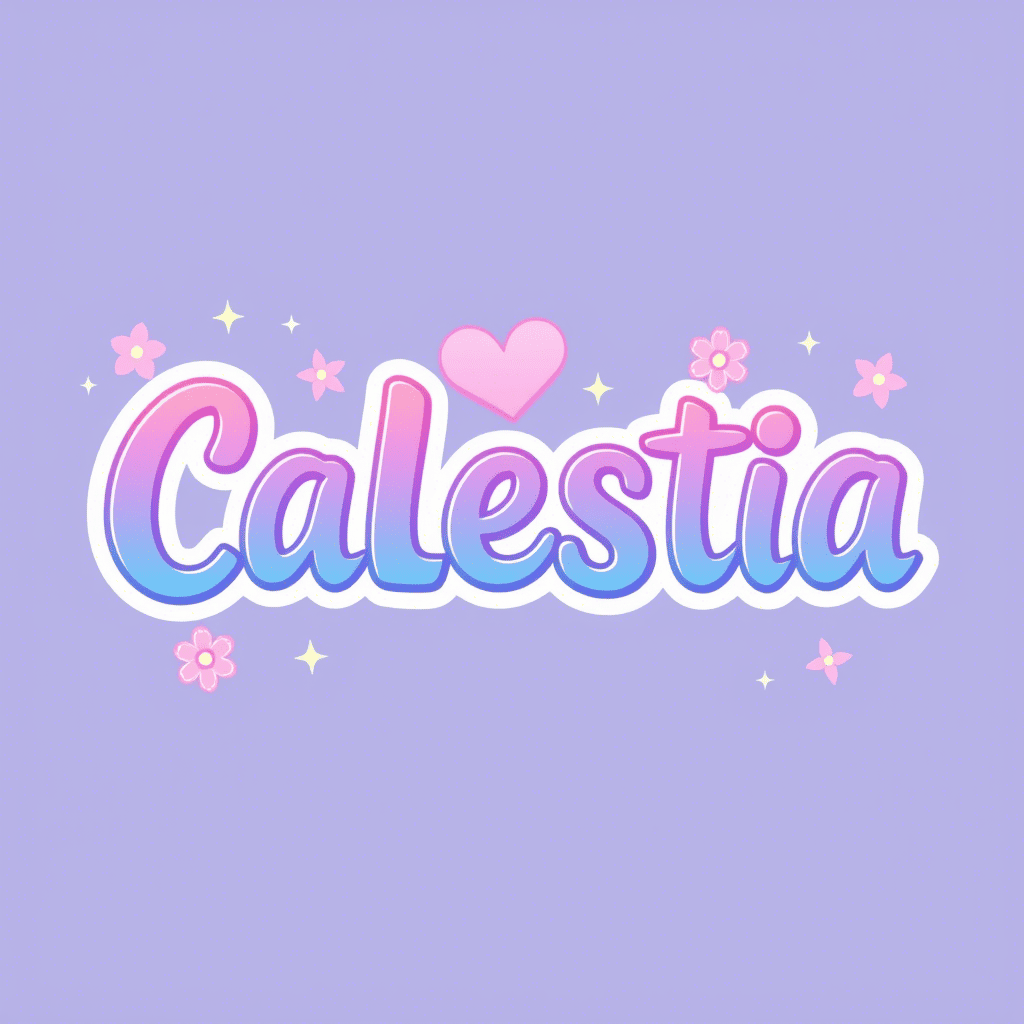
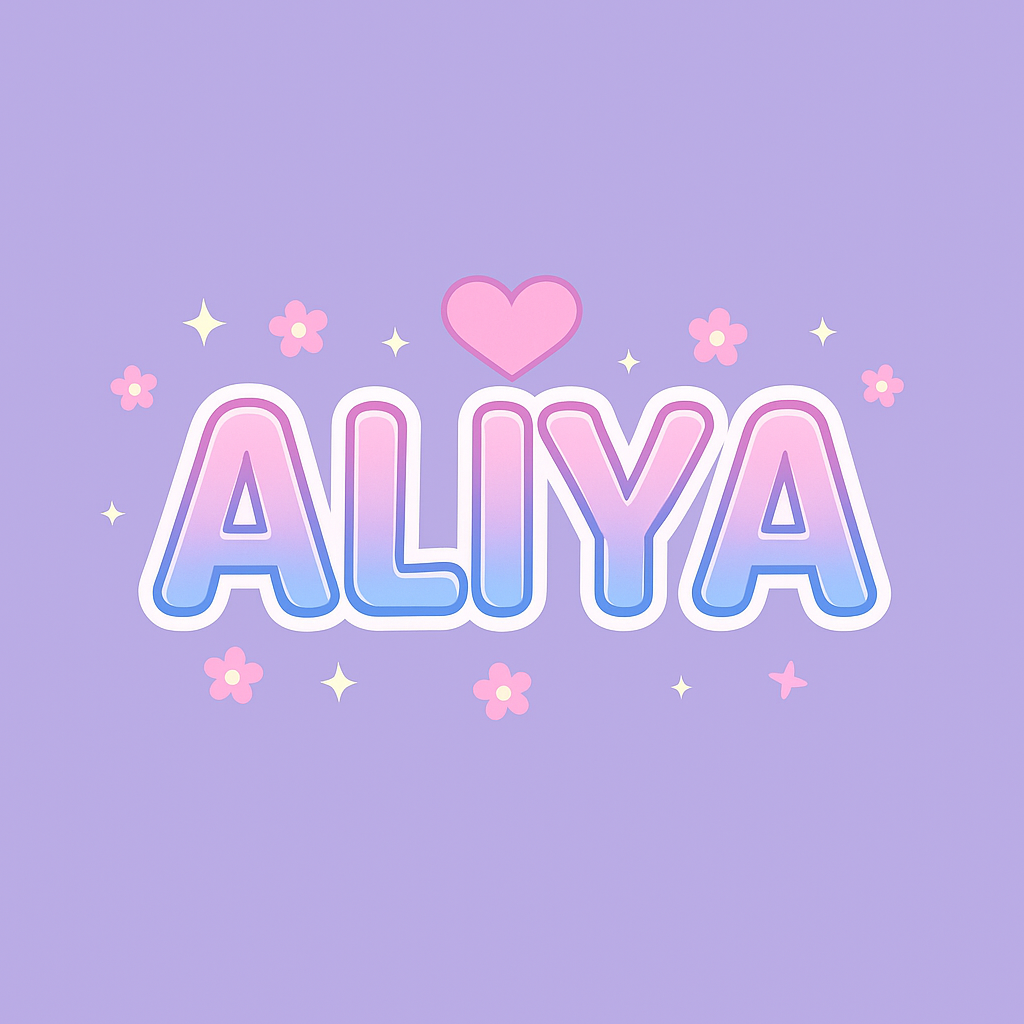
Add files via upload

diff --git a/index.html b/index.html
@@ -1,16 +1,3 @@
-<!--
-  This code was written by Azuan — with love, bugs, and late-night heartbreaks.
-  Supported by XiezuMedia, who believed in the chaos.
-
-  © 2024 Zykuan & XiezuMedia. All rights reserved.
-  Feel free to use or cherish it, like a good ex...
-  But remove this watermark? That’s like forgetting who loved you first.
-  And trust me — we notice.
-
-  Don’t ghost the author.
-  www.instagram.com/zuanxfnd
--->
-
 <!DOCTYPE html>
 <html lang="en">
 <head>
@@ -19,13 +6,13 @@
   <title>Calestars - Community</title>
 
   <!-- Open Graph / SEO Tags -->
-  <meta property="og:description" content="Komunitas Calestia – Link-in-Bio & Community Hub">
+  <meta property="og:description" content="Komunitas ALIYA – Link-in-Bio & Community Hub">
   <meta property="og:type" content="website">
-  <meta property="og:url" content="https://calestia.my.id">
-  <meta property="og:image" content="https://calestia.my.id/seo.png">
+  <meta property="og:url" content="https://tmpfiles.org/dl/437810/df9bfcba6b.jpg">
+  <meta property="og:image" content="https://tmpfiles.org/dl/437810/df9bfcba6b.jpg/seo.png">
   <meta property="og:image:width" content="1200">
   <meta property="og:image:height" content="630">
-  <meta name="twitter:image" content="https://calestia.my.id/seo.png">
+  <meta name="twitter:image" content="https://tmpfiles.org/dl/437810/df9bfcba6b.jpg/seo.png">
 
   <!-- Favicon -->
   <link rel="icon" href="icon.png" type="image/png">
@@ -293,7 +280,7 @@
       
       <!-- Logo -->
       <div class="flex items-center space-x-2">
-        <span class="text-xl font-bold gradient-text">Calestia</span>
+        <span class="text-xl font-bold gradient-text">https://tmpfiles.org/dl/437810/df9bfcba6b.jpg</span>
       </div>
 
       <!-- Right Menu -->
@@ -307,7 +294,7 @@
         </button>
 
         <!-- Admin Telegram Button -->
-        <a href="https://t.me/Zykuan" target="_blank"
+        <a href="https://t.me/masadijir" target="_blank"
         class="flex items-center space-x-2 bg-[#2AABEE] text-white px-4 py-2 rounded-full shadow-md hover:shadow-lg transition-all">
         <i class="fab fa-telegram-plane"></i>
         <span>Admin</span>
@@ -338,7 +325,7 @@
 
         <!-- Introduction Text -->
         <p class="text-gray-600 max-w-2xl">
-          Welcome to Calestia — a little world made just for you.
+          Welcome to Aliya — a little world made just for you.
           <br><br>
           Whether you’re here to connect, explore, or simply feel closer to the magic,
           every link below is a step into our universe.
@@ -433,12 +420,12 @@
       <div class="text-left">
         <h3 class="text-xl font-semibold text-gray-800">Standard</h3>
         <h3 class="text-xl font-semibold text-gray-800 my-1 flex items-center gap-1">
-          4K 
+          3K 
           <span class="text-xs bg-pink-500 px-2 py-0.5 rounded-full text-white">15 days</span>
         </h3>
         <ul class="text-left text-gray-600 space-y-2 mb-6 dark:text-gray-300">
-          <li>• Premium 15 Days</li>
-          <li>• 2,000 message limit</li>
+          <li>• Addgroup 15 Days</li>
+          <li>• Premium 7 Days</li>
           <li>• No cooldown feature</li>
           <li>• Access all features</li>
           <li>• Priority support</li>
@@ -452,12 +439,12 @@
       <div class="text-left">
         <h3 class="text-xl font-semibold text-gray-800">Starlight</h3>
         <h3 class="text-xl font-semibold text-gray-800 my-1 flex items-center gap-1">
-          5K 
+          8K 
           <span class="text-xs bg-indigo-500 px-2 py-0.5 rounded-full text-white">30 days</span>
         </h3>
         <ul class="text-left text-gray-600 space-y-2 mb-6 dark:text-gray-300">
-          <li>• Premium 30 Days</li>
-          <li>• Following daily limits (20)</li>
+          <li>• Addgroup 30Days</li>
+          <li>• Premium 15dDays</li>
           <li>• No cooldown feature</li>
           <li>• Access all features</li>
           <li>• Priority support</li>
@@ -471,12 +458,12 @@
       <div class="text-left">
         <h3 class="text-xl font-semibold text-gray-800">Moonlight</h3>
         <h3 class="text-xl font-semibold text-gray-800 my-1 flex items-center gap-1">
-          8K 
-          <span class="text-xs bg-yellow-500 px-2 py-0.5 rounded-full text-white">30 days</span>
+          15K 
+          <span class="text-xs bg-yellow-500 px-2 py-0.5 rounded-full text-white">90 days</span>
         </h3>
         <ul class="text-left text-gray-600 space-y-2 mb-6 dark:text-gray-300">
-          <li>• Premium 30 Days</li>
-          <li>• 4,000 message limit</li>
+          <li>• Addgroup 90Days</li>
+          <li>• Premium 45Days</li>
           <li>• No cooldown feature</li>
           <li>• Access all features</li>
           <li>• Priority support</li>
@@ -488,16 +475,16 @@
     <!-- Inviting Bots to Groups -->
     <div class="bg-white rounded-xl p-6 shadow-lg border border-gray-100 card-hover transition-colors duration-300 dark:bg-gray-800 dark:border-gray-700 dark:text-white">
       <div class="text-left">
-        <h3 class="text-xl font-semibold text-gray-800">Inviting bots to groups</h3>
+        <h3 class="text-xl font-semibold text-gray-800">PERMANEN</h3>
         <h3 class="text-xl font-semibold text-gray-800 my-1 flex items-center gap-1">
-          12K 
-          <span class="text-xs bg-teal-500 px-2 py-0.5 rounded-full text-white">30 days</span>
+          25K 
+          <span class="text-xs bg-teal-500 px-2 py-0.5 rounded-full text-white">unlimited</span>
         </h3>
         <ul class="text-left text-gray-600 space-y-2 mb-6 dark:text-gray-300">
-          <li>• Rent for 30 days</li>
-          <li>• Maintaining the group</li>
+          <li>• unlimited days group</li>
+          <li>• unlimited premium user</li>
           <li>• Have fun with friends</li>
-          <li>• 7 day premium bonus for renters</li>
+          <li>• free req fitur for cust</li>
         </ul>
         <button class="w-full bg-teal-500 hover:bg-teal-600 text-white py-2 rounded-md transition select-plan">Select Plan</button>
       </div>
@@ -529,18 +516,18 @@
 
 <!-- Footer -->
 <footer class="mt-16 text-center text-gray-600 px-4">
-  <p class="mb-2">Create With ❤ by <span class="font-semibold">Zykuan</span></p>
-  <p class="mb-4">© 2025 XiezuMedia. All Rights Reserved.</p>
+  <p class="mb-2">Create With ❤ by <span class="font-semibold">satee</span></p>
+  <p class="mb-4">© 2025 sateexml. All Rights Reserved.</p>
 
   <!-- Social Media Links -->
 <div class="flex justify-center space-x-4 text-lg">
-  <a href="https://instagram.com/zuanxfnd" target="_blank" rel="noopener noreferrer" class="text-gray-600 hover:text-pink-600 transition">
+  <a href="https://instagram.com/teee.tech" target="_blank" rel="noopener noreferrer" class="text-gray-600 hover:text-pink-600 transition">
     <i class="fab fa-instagram"></i>
   </a>
-  <a href="https://github.com/Zyknn" target="_blank" rel="noopener noreferrer" class="text-gray-600 hover:text-gray-900 transition">
+  <a href="https://github.com/Adiixml" target="_blank" rel="noopener noreferrer" class="text-gray-600 hover:text-gray-900 transition">
     <i class="fab fa-github"></i>
   </a>
-  <a href="https://t.me/Zykuan" target="_blank" rel="noopener noreferrer" class="text-gray-600 hover:text-blue-500 transition">
+  <a href="https://t.me/masadijir" target="_blank" rel="noopener noreferrer" class="text-gray-600 hover:text-blue-500 transition">
     <i class="fab fa-telegram-plane"></i>
   </a>
 </div>

diff --git a/script.js b/script.js
@@ -1,38 +1,24 @@
-/*
- * This code was written by Azuan — with love, bugs, and late-night heartbreaks.
- * Supported by XiezuMedia, who believed in the chaos.
- *
- * © 2025 Zykuan & XiezuMedia. All rights reserved.
- * Feel free to use or cherish it, like a good ex...
- * But remove this watermark? That’s like forgetting who loved you first.
- * And trust me — we notice.
- *
- * Don’t ghost the author.
- * www.instagram.com/zuanxfnd
- */
-
-
 // Daftar grup WhatsApp yang akan ditampilkan di UI
 const groups = [
   {
-    title: "Calestia’s Number 💖",
+    title: "ALIYA Number 💖",
     header: "Reach Your Favorite Bot",
     description:
       "The easiest way to reach your favorite bot! Start chatting and let the magic begin.",
-    image: "https://files.catbox.moe/7sgzsu.jpg   ",
-    url: "https://wa.me/6282133532380   ",
+    image: "https://tmpfiles.org/dl/437810/df9bfcba6b.jpg   ",
+    url: "https://wa.me/6282333088520   ",
     icon: "fa-phone",
     color: "bg-pink-500",
     buttonText: "Chat With Bot",
     buttonIcon: "fa-comment-dots"
   },
   {
-  title: "Telegram Bot (FREE) ✨",
+  title: "Telegram owner✨",
   header: "Calestia Now on Telegram",
   description:
-    "Explore a new side of Calestia! This is the official Telegram version of your favorite WhatsApp bot—same love, new platform and its features are free.",
-  image: "https://files.catbox.moe/22zz0w.jpg",
-  url: "https://t.me/ClstiaBot",
+    "Explore a new side of aliya!  version of your favorite WhatsApp bot—same love, new platform and its features are free.",
+  image: "https://tmpfiles.org/dl/437810/df9bfcba6b.jpg",
+  url: "https://t.me/masadijir",
   icon: "fa-paper-plane",
   color: "bg-cyan-500",
   buttonText: "Talk on Telegram",
@@ -44,7 +30,7 @@ const groups = [
     description:
       "Join the official group where all Calestars unite. Stay connected and be part of something amazing!",
     image: "https://files.catbox.moe/wwfco3.png   ",
-    url: "https://chat.whatsapp.com/HDockZJ48S82HUhsxu85kH   ",
+    url: "https://chat.whatsapp.com/B4pzNsUFmcT0qwX5GTvrCn   ",
     icon: "fa-users",
     color: "bg-purple-500",
     buttonText: "Join Community",
@@ -55,8 +41,8 @@ const groups = [
     header: "Stay Updated with Us",
     description:
       "Stay updated with all the latest news and announcements in our official channel. No distractions, just the essentials!",
-    image: "https://files.catbox.moe/u4d541.jpg   ",
-    url: "https://whatsapp.com/channel/0029VapSsRCGJP8CHvDLT11f   ",
+    image: "https://tmpfiles.org/dl/437810/df9bfcba6b.jpg   ",
+    url: "https://whatsapp.com/channel/0029Vao4uP22UPBD5IvRBP3F   ",
     icon: "fa-bullhorn",
     color: "bg-blue-500",
     buttonText: "Follow to Channel",
@@ -457,7 +443,7 @@ function initPlans() {
         message += `\n*Link Group:* isi url group, pastikan tidak diprivat`;
       }
 
-      const whatsappUrl = `https://wa.me/628979440862?text= ${encodeURIComponent(
+      const whatsappUrl = `https://wa.me/6285857313870?text= ${encodeURIComponent(
         message
       )}`;
       window.open(whatsappUrl, "_blank");
